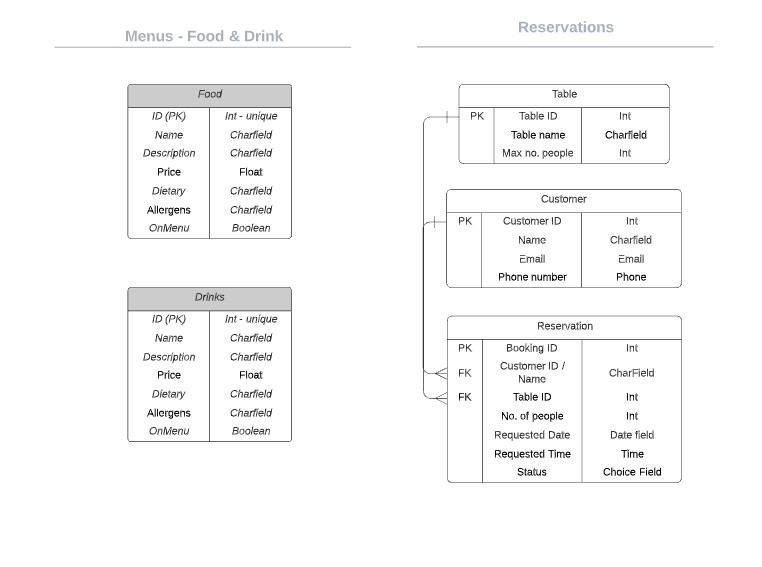
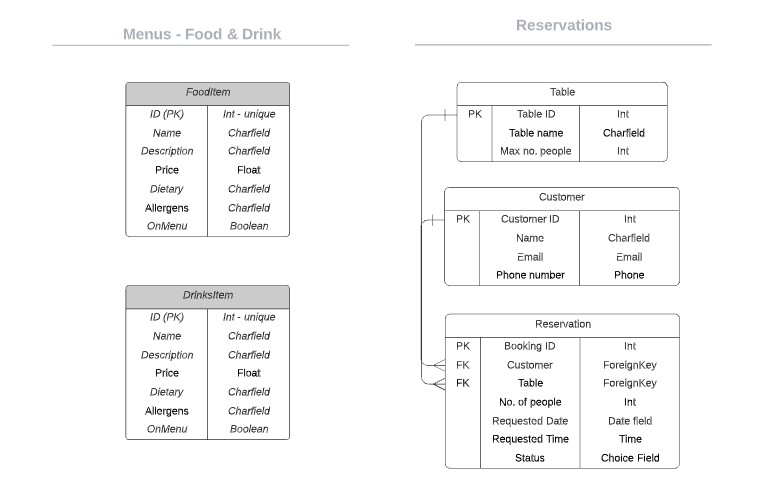
Add databases section to README with ERD. Add the rest of user stories testing images with explanations to TESTING.md

diff --git a/TESTING.md b/TESTING.md
@@ -49,10 +49,53 @@ Once in this admin backend, the admin user is able to access the food and drinks
 [Prompt user to register](https://github.com/daisygunn/grow-restaurant/issues/9) /
 [Forms pre-populated for users](https://github.com/daisygunn/grow-restaurant/issues/10)
 
+The navbar displays different navlinks depending on the status of the user. If they aren't logged in already the options are `Register` or `Login`.
+
+![](assets/images/user_stories_testing/display_when_logged_out.jpg)
+
+On the sign in page the user is prompted to register if they do not have an account:
+
+![](assets/images/user_stories_testing/sign_in.jpg)
+
+Once a user logs in they are presented with a success message:
+
+![](assets/images/user_stories_testing/logged_in_message.jpg)
+
+ If they are logged in then this changes, pages that require authentication show instead, these are `Manage Reservations`, `Update Details` & `Logout`.
+
+![](assets/images/user_stories_testing/display_when_logged_in.jpg)
+
+Logged in user have the benefit of forms pre-populating with their information:
+
+![](assets/images/user_stories_testing/pre_populated_form.jpg)
+
+![](assets/images/user_stories_testing/form_two.jpg)
+
+![](assets/images/user_stories_testing/form_three.jpg)
+
+New users will only have their email populated as they will not yet be present in the Customer model.
+
 ## Epic 4 - Menus can be viewed
 ### User Stories
 [Food and drinks menus displayed seperately](https://github.com/daisygunn/grow-restaurant/issues/11) /
 [All items on the menu have a price, description and dietary info](https://github.com/daisygunn/grow-restaurant/issues/12) 
+
+In the navbar there is a `Menus` link which has a dropdown to display the two menu options, `Food` & `Drinks`. 
+
+![](assets/images/user_stories_testing/menus_nav.jpg)
+
+On the `Menus` page there are links to both the Food and Drinks menu pages.
+
+![](assets/images/user_stories_testing/menus_page_links.jpg)
+
+On each of the menu pages each menu section is seperated by a `<hr>` and has a clear heading to highlight these seperate sections, making it easier for the user to find what they're looking for. 
+
+For each item there is a name, description, dietary label, allergens list & price.
+
+![](assets/images/user_stories_testing/food_menu.jpg)
+
+![](assets/images/user_stories_testing/drinks_menu.jpg)
+
 
 ## Epic 5 - Reservations Functionality
 ### User Stories
@@ -60,6 +103,32 @@ Once in this admin backend, the admin user is able to access the food and drinks
 [Reservation is rejected if restaurant is fully booked](https://github.com/daisygunn/grow-restaurant/issues/14)  / 
 [Reservations can be edited by the user on the front end](https://github.com/daisygunn/grow-restaurant/issues/17) / 
 [Users can edit their information](https://github.com/daisygunn/grow-restaurant/issues/18)
+
+From the reservations page any user (autheticated or not) can add their details, requested time & date and submit the form, if there is availability they will get a positive message.
+
+![](assets/images/user_stories_testing/reservation_message.jpg)
+
+If there is no availability then they will not be able to submit their request and they will get a message to explain this:
+
+![](assets/images/user_stories_testing/rejected_request.jpg)
+
+An authenticated user is able to manage any existing reservations from the Manage Reservations page, if they have any they are displayed like this:
+
+![](assets/images/user_stories_testing/manage_reservations.jpg)
+
+From this panel they are able to edit & their reservations:
+
+![](assets/images/user_stories_testing/reservation_edit_before.jpg)
+
+![](assets/images/user_stories_testing/reservation_changed.jpg)
+
+And users can also cancel them as well:
+
+![](assets/images/user_stories_testing/cancel_reservation.jpg)
+
+![](assets/images/user_stories_testing/cancel_modal.jpg)
+
+![](assets/images/user_stories_testing/cancel_message.jpg)
 
 ## JavaScript Tests
 

diff --git a/README.md b/README.md
@@ -26,6 +26,8 @@ This website will offer all of these things whilst also allowing for intuitive n
 
 Due to the age group of the users, it is assumed that most users will be viewing the site on their mobile phones and therefore creating something responsive is integral to the design, I have used Bootstrap elements & custom CSS to allow for this.
 
+Please find all my defined user stories & their acceptance criteria [here](https://github.com/daisygunn/grow-restaurant/issues)
+
 ### Scope
 In order to acheive the desired user & business goals the following features will be included in this release:
 
@@ -46,6 +48,18 @@ The website is made of three apps:
 1. Website - core functionality
 2. Menus - menu display
 3. Reservations - reservations enquiries & customer management
+
+### Databases
+
+The menus and reservations app both require databases to store information so I have built 5 custom models. 
+
+#### Menus
+FoodItem & DrinksItem are the model names for the menus app, these are two standalone models that provide all of the information required to display the items as part of the restaurants menu.
+
+#### Reservations
+There are 3 models in this app, Customer, Table & Reservation. The combination of these 3 models allow for customer details to be stored, reservation enquiries to be made & managed & also enable availability checks whilst the user is enquiring. 
+
+Entity Relationship Diagram below to see how the models relate to eachother: 
 
 ![Database Schemas can be found here](assets/images/database_schemas.jpg)
 
@@ -142,7 +156,7 @@ I have used several technologies that have enabled this design to work:
     - Used to test the accessibility of the website.
 - [Animate](https://animate.style/)
     - Used to animate main heading and forms. 
-
+---
 ## Testing
 I have used a combination of manual and automated testing to ensure the websites functionality meets the desired intent.
 
@@ -164,8 +178,6 @@ In addition to this I have also used online validators to test the accessbility 
 - [Color Contrast Accessibility Validator](https://color.a11y.com/)
     - Allowed me to test the colour contrast of my webpage.
 
-
-
 ### Manual Testing
 
 [TESTING.md](TESTING.md)
@@ -183,8 +195,7 @@ To generate your own coverage report from the command-line:
 ### Bugs and Fixes
  - I noticed that upon submitting the reservation form the month was always saved as January (01) no matter what date the user had selected. To fix this I stopped using 'cleaned-data' to retrieve the information from the post request and reformatted the date myself using `strptime`.
 
- - After deploying my project to Heroku I had an issue with my header, the background image wasn't loading with the file path `assets/images/header-background.jpg`, after discussing the issue with others I came to the conclusion that due to me linking an image within the static directory in my css file that was also in the static directory this is what was causing the problem. For that reason I have linked directly the cloudinary image url. 
-
+ - After deploying my project to Heroku I had an issue with my header, the background image wasn't loading with the file path `assets/images/header-background.jpg`, after discussing the issue with others we came to the conclusion that due to me linking an image within the static directory in my css file (that was also in the static directory) this is what was causing the problem. For that reason I have linked directly the cloudinary image url. 
 
 ---
 ## Deployment
